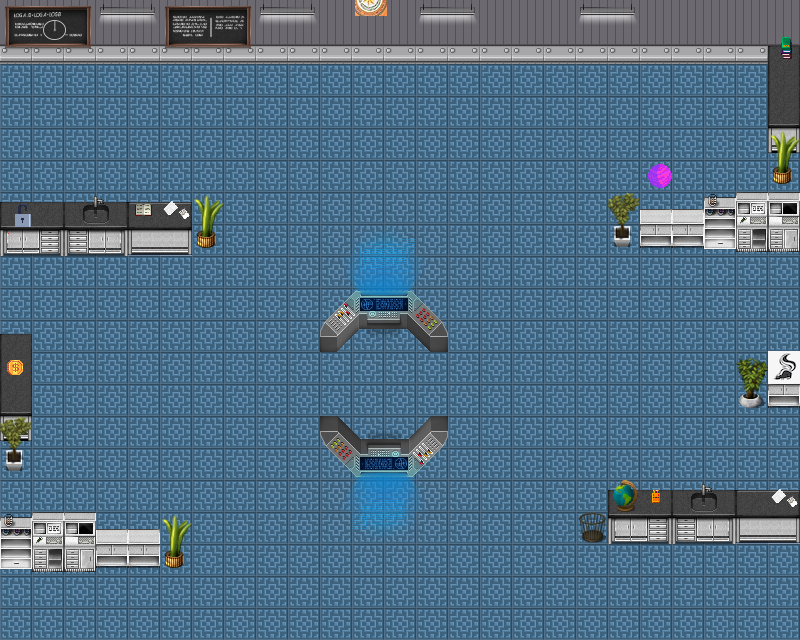
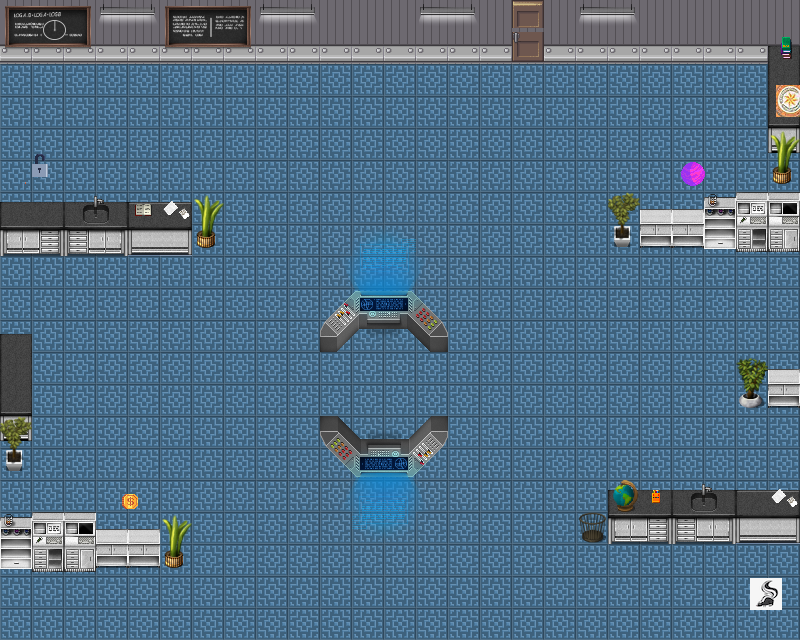
door transitions scenes from engineering back to lobby

diff --git a/src/scenes/Engineering.js b/src/scenes/Engineering.js
@@ -1,10 +1,13 @@
 import Phaser from "phaser";
 import Player from "../entities/Player";
+import Lobby from "./Lobby";
 
 let eItem;
 let eText;
 let eObject;
 let EngineeringClues;
+let Door;
+let backToLobbyDoor;
 
 export default class Engineering extends Phaser.Scene {
   constructor() {
@@ -102,7 +105,21 @@ export default class Engineering extends Phaser.Scene {
       obj.body.height = object.height;
     });
 
+    // Door layers
+    Door = map.getObjectLayer("Door")["objects"];
+    backToLobbyDoor = this.physics.add.staticGroup()
+    Door.forEach((object) => {
+      let obj = backToLobbyDoor.create(object.x, object.y, object.name);
+      obj.setScale(object.width / object.width, object.height / object.height);
+      obj.setOrigin(0);
+      obj.body.width = object.width;
+      obj.body.height = object.height;
+      console.log(object);
+      console.log(eItem);
+    });
+
     this.physics.add.overlap(this.player, eItem, this.eCollect, null, this);
+    this.physics.add.overlap(this.player, backToLobbyDoor, this.exitRoom, null, this);
 
     wallLayer.setCollisionByExclusion([-1]);
     spaceStation.setCollisionByExclusion([-1]);
@@ -124,6 +141,12 @@ export default class Engineering extends Phaser.Scene {
 
   update() {
     this.player.update(this.cursors);
+  }
+
+  exitRoom() {
+    this.scene.stop("Engineering");
+    this.scene.start("Lobby", Lobby);
+
   }
   eCollect(player, object) {
     object.destroy(object.x, object.y);

diff --git a/src/scenes/Lobby.js b/src/scenes/Lobby.js
@@ -153,6 +153,7 @@ export default class Lobby extends Phaser.Scene {
   enterRoom() {
     this.scene.stop("Lobby");
     this.scene.start("Engineering", Engineering);
+
   }
 
   collect(player, object) {
